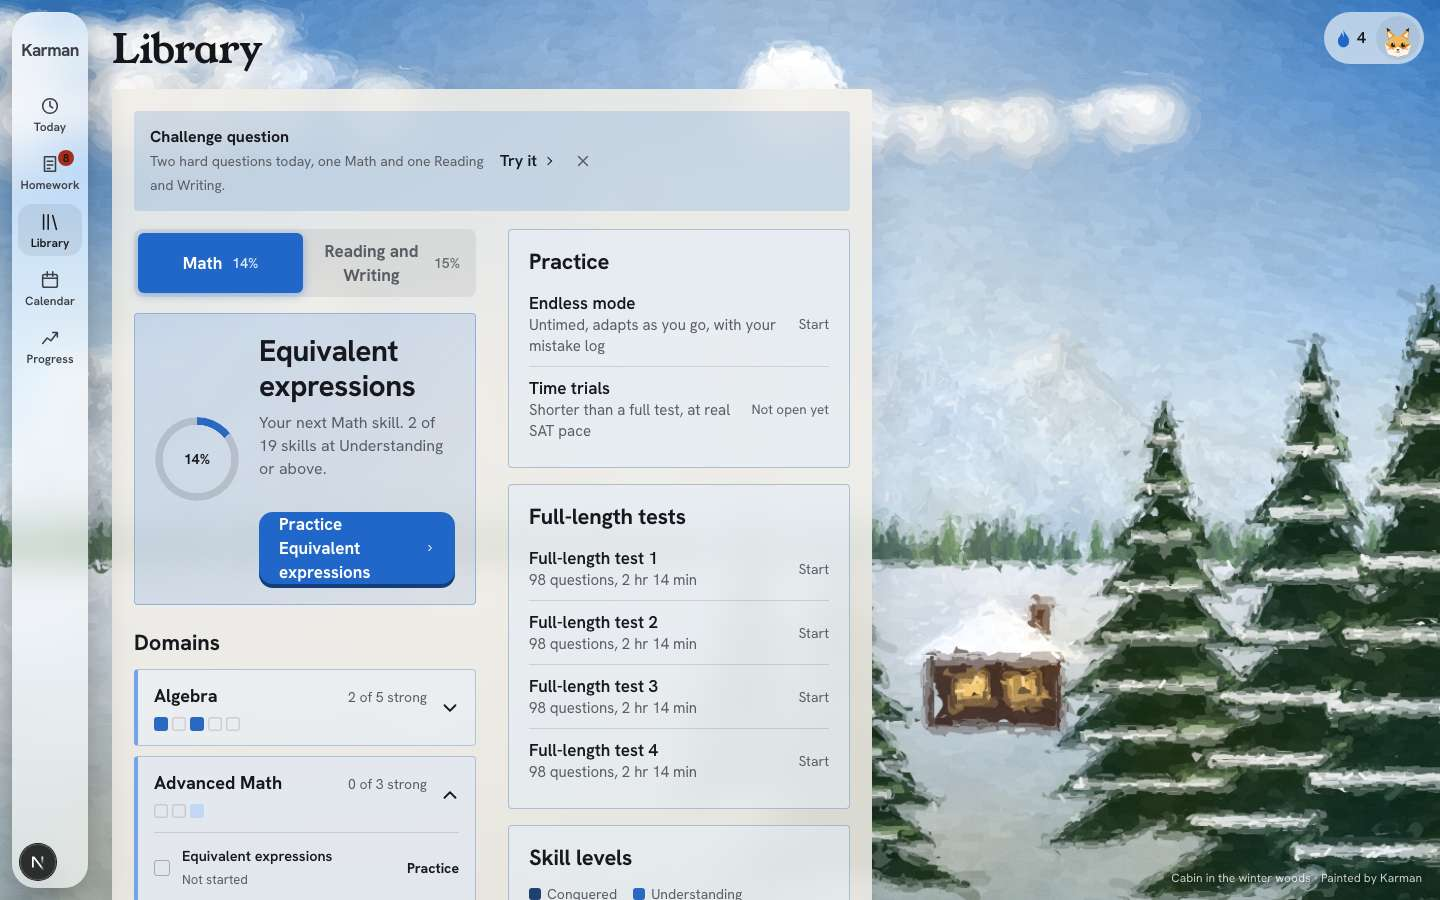
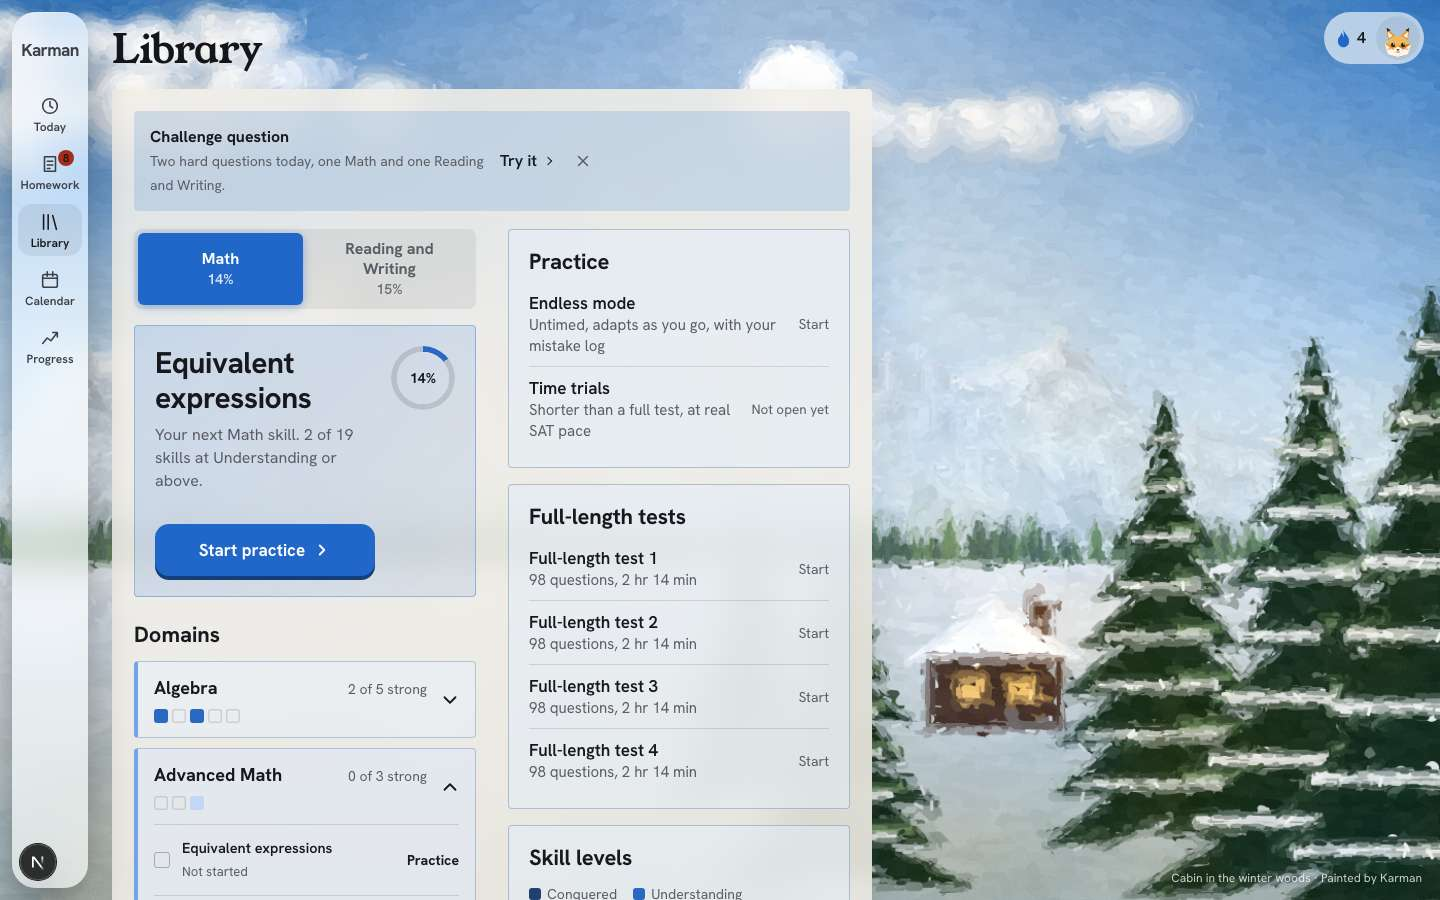
Portal polish: report, before and after screens

diff --git a/docs/overnight/reports/portal-polish.md b/docs/overnight/reports/portal-polish.md
@@ -1,0 +1,230 @@
+# Portal polish: report
+
+Session: portal-polish. Branch: `claude/portal-polish-4562be` (cut from `claude/overnight-ship`
+at `ed02be4e`). Nothing pushed, nothing deployed, main untouched, production never touched. I
+used the local database only, and read the question bank without changing it.
+
+Your nine points apply to every portal (student, parent, tutor, school and admin), because they
+share one shell. The shell fixes below reach all of them.
+
+## What changed
+
+### 1. Loading and the painting
+
+I measured first, on the student Today page, at 1440 wide in headless Chrome on the dev server:
+
+|                                                | Before                                                                             | After                                              |
+| ---------------------------------------------- | ---------------------------------------------------------------------------------- | -------------------------------------------------- |
+| First paint (text on screen)                   | 0.35 to 0.42 s                                                                     | about the same (0.35 to 0.5 s)                     |
+| Page usable                                    | 0.32 to 0.40 s                                                                     | about the same                                     |
+| Painting finished, later pages                 | 0.7 to 0.8 s after load, and the page froze for about 0.12 s to draw the landscape | about 0.06 s after load, nothing to draw           |
+| Moving between tabs (Today, Library, Progress) | the painting was drawn again on every tab                                          | drawn once; the tab shows it within 0.03 to 0.08 s |
+| Layout shift                                   | 0                                                                                  | 0                                                  |
+
+- **The cause:** every page drew the day's painting again from nothing: the landscape (0.12 s
+  frozen) and then thousands of brush strokes over 0.7 s, which showed as detail "popping in".
+- **The fix:** once the painting is finished, it is kept: in memory while you move between tabs,
+  and in the browser's own storage for a reload or a new tab the same day. A later page shows
+  the finished painting straight away, with all its detail, and nothing has to be painted. A
+  new day, a new time of day or a resized window paints afresh. Old days are cleared.
+- The stroke slices that finish the small brushes now check the clock more often, so a slice
+  can no longer run long and hold up a click.
+- The 3.8-second opening (once per session) is unchanged.
+- The page never waits for the painting.
+
+### 2. What to do next, and stronger type
+
+- **The Library leads with one thing to do.** At the top of each course: the next skill in big
+  type, one line ("Your next Math skill. 2 of 19 skills at Understanding or above."), and the
+  screen's only main button, "Start practice". The course ring sits beside it.
+- **Bigger type in every portal:** card headings went from 19 to 22 px, page titles from 22 to
+  26 px, and list text from 16 to 17 px.
+- **More color in the box:** every card carries a little of the painting's hue. Domain cards
+  in the Library are washed with the level shade they've reached, with a colored left edge.
+
+### 3. Cards that open in place
+
+- A new building block, `Expand`, opens a card where it is with a smooth slide instead of
+  jumping to a new page. Any portal can use it.
+- In the Library each Domain is one of these cards. Closed, it shows the name, "2 of 5 strong"
+  and the skill squares. Open, it lists every skill with its level and a Practice link, then
+  "Domain quiz" and "Open Algebra" (the full Domain page) as links.
+- The Domain holding your next skill is open when you arrive.
+- With reduced motion, cards open without the slide.
+
+### 4. Background music
+
+- A soft Karman theme, made in code with the browser's sound engine (no file, nothing bought,
+  nothing copyrighted).
+  - It's in D major, slow (66 beats a minute), with warm pads, a soft bass and a sparse
+    plucked melody with an echo.
+  - It loops about every 29 seconds without a click, and plays very quietly.
+- **Off by default.** Turn it on in Account, Sound and motion: "Background music". Your choice
+  is remembered on the device.
+- It starts only after you click or press a key, as browsers require. It pauses when the tab is
+  hidden and fades back in when you return.
+- It has its own switch rather than following "Quiz sounds", because that switch resets to off
+  on every visit. With it, the music would never come back on its own.
+
+### 5. The logo
+
+- **Inside any portal, the logo goes to that portal's home.** It used to lead to the public site
+  unless a page said otherwise, which looked like being signed out. The pages that forgot are
+  fixed for good: the shell now defaults to the portal's first tab.
+- The rail shows the site header's "Karman" wordmark instead of the rocket. On a phone it sits
+  top left.
+
+### 6. Time and effort
+
+- Progress now shows one bar per day for the last 7 days, each labelled (Mon, Tue … Today) with
+  its time on top. Today's bar is in the accent color.
+- The weekly rings are gone, and the code behind them is replaced.
+
+### 7. The Library splits Math and Reading and Writing
+
+- A big two-tab switch at the top: **Math** and **Reading and Writing**, each with its percent.
+- Picking one shows only that course: its next skill, its Domains and their skills.
+- Without a pick, it opens the course that's further behind.
+- Homework is unchanged and unified. The segmented skill ring on Progress is unchanged.
+
+### 8. The account menu
+
+- **Why it was broken:** in dark mode on a light painting, the menu took the top bar's dark
+  text on its own dark background, and the bar's blur stopped the menu's blur. The page showed
+  through as "blocks on blocks", with text you couldn't read.
+- **Rebuilt:**
+  - It opens from the fox with a spring.
+  - Your name and email sit at the top, with the fox.
+  - Below that, a grid of big tiles. Each has an icon and one or two words: Test date, Invite
+    parent, Sound, Plan, Tutor code, Messages, Profile.
+  - Sign out sits on its own quiet line at the bottom.
+  - Escape, a click outside or a scroll closes it. Arrow keys move between tiles.
+- **The other portals' menus** use the same tiles:
+  - Parent: Weekly email, your other children, Link student.
+  - Admin: Student view, Public site.
+  - Tutor: Admin, for admins.
+
+### 9. Skill categories (read only)
+
+**The portal isn't hiding any skills.** It shows all 39 skills in the catalog: 19 Math and 20
+Reading and Writing.
+
+- **Algebra (5 skills) and Expression of Ideas (2 skills) match the College Board's official
+  list exactly.** The College Board really has only that many.
+- **Why Reading and Writing looks skewed:** our catalog splits Standard English Conventions
+  into 12 skills, where the College Board has 2 (Boundaries, and Form, Structure and Sense). So
+  12 of the 20 Reading and Writing skills sit in that one Domain.
+- **The questions are not skewed.** Standard English Conventions has 1,302 usable questions,
+  23% of Reading and Writing, slightly below its 26% share of the real test. Expression of Ideas
+  has 1,444 questions spread over only 2 skills.
+
+No database field holds finer question types. The question wording does support them, though.
+Below is a proposal for you to approve or change. The counts are rough estimates from matching
+words in the questions. A real rollout would tag each question once and have the tags checked.
+
+| Domain                       | Official skill                    | Proposed sub-skills (about how many questions)                                                                                                                |
+| ---------------------------- | --------------------------------- | ------------------------------------------------------------------------------------------------------------------------------------------------------------- |
+| Algebra                      | Linear equations in one variable  | Solve for x (189), Word problems (84), How many solutions (71), Value of an expression (52)                                                                   |
+| Algebra                      | Linear equations in two variables | Meaning in context (90), Graphs (64), Parallel and perpendicular lines (61), Write the equation (about 40)                                                    |
+| Algebra                      | Linear functions                  | Evaluate or write f(x) (145), From a graph or table (109), Slope and intercept in context (67), Slope and intercept (17)                                      |
+| Algebra                      | Systems of two linear equations   | Solve the system (168), How many solutions (66), Word problems (30)                                                                                           |
+| Algebra                      | Linear inequalities               | Word problems: at least, at most (83), Solve the inequality (62), Points and graphs (31)                                                                      |
+| Advanced Math                | Equivalent expressions            | Polynomials (191), Rational expressions (54), Factoring (33), Exponents and radicals (18)                                                                     |
+| Advanced Math                | Nonlinear equations and systems   | Quadratic equations (179), Radical and absolute value (111), Line and parabola systems (87), How many solutions (59), Rational equations (39)                 |
+| Advanced Math                | Nonlinear functions               | Exponential growth and decay (248), Quadratic functions (187), Zeros and factors (45), Shifts (9)                                                             |
+| Problem-Solving and Data     | Ratios, rates and units           | Unit conversion (137), Ratios and proportions (24), Rates (19)                                                                                                |
+| Problem-Solving and Data     | Percentages                       | Percent of a number (135), Percent change (42)                                                                                                                |
+| Problem-Solving and Data     | One-variable data                 | Mean and median (78), Spread (22), Reading a distribution (20)                                                                                                |
+| Problem-Solving and Data     | Two-variable data                 | Scatterplots and best fit (47), Linear or exponential (10)                                                                                                    |
+| Problem-Solving and Data     | Probability                       | Tables (36), Conditional (12)                                                                                                                                 |
+| Geometry and Trig            | Area and volume                   | Volume (102), Area (62), Scaling (25)                                                                                                                         |
+| Geometry and Trig            | Lines, angles and triangles       | Angle sums (82), Parallel lines (64), Similar triangles (57)                                                                                                  |
+| Geometry and Trig            | Right triangles and trig          | Sine, cosine, tangent (101), Pythagoras and special triangles (66)                                                                                            |
+| Geometry and Trig            | Circles                           | Circle equations (98), Arcs and sectors (17), Circumference and area (13)                                                                                     |
+| Information and Ideas        | Central Ideas and Details         | Main idea (130), Detail from the text (123), Poems and novels (36)                                                                                            |
+| Information and Ideas        | Command of Evidence               | From a table or graph (322), Support or weaken a claim (147), Choose the quotation (119)                                                                      |
+| Information and Ideas        | Inferences                        | Finish the text logically (485), Inference with data (91)                                                                                                     |
+| Craft and Structure          | Words in Context                  | Most precise word (796), Meaning as used (86)                                                                                                                 |
+| Craft and Structure          | Text Structure and Purpose        | Role of the underlined part (217), Overall structure (139), Main purpose (99)                                                                                 |
+| Craft and Structure          | Cross-Text Connections            | How author 2 would respond (39), What both agree on (24)                                                                                                      |
+| Expression of Ideas          | Transitions                       | Contrast (207), Cause and effect (137), Sequence (83), Example (79), Emphasis (76), Addition (32)                                                             |
+| Expression of Ideas          | Rhetorical Synthesis              | Compare or contrast (220), Explain or introduce (102), A specific detail (88), Emphasize (80), Give an example (71), For a new audience (40), Generalize (29) |
+| Standard English Conventions | already 12 skills                 | Keep, or regroup under the 2 official skills with these 12 as sub-skills                                                                                      |
+
+Two ways to show them, for you to choose:
+
+- **Keep the official skills as the squares,** and list sub-skills inside each skill when its
+  card opens. Standard English Conventions would fold back to 2 skills with 6 sub-skills each,
+  so Reading and Writing reads 3, 3, 2, 2 like the College Board.
+- **Make every sub-skill its own square:** about 90 squares. That's more categories, but it
+  drifts from the official list and changes how "Up next" weighs skills.
+
+Also noticed: several reading passages appear more than once under different question numbers.
+For example, about 21 Rhetorical Synthesis items start from the same notes. Some of that is
+normal for that question type, but it is worth a duplicate check.
+
+## How I checked
+
+- **Headless browser** (Playwright from the command line, never the app's browser pane), one
+  dev server on port 3130.
+  - Every tab of every portal: student (Liam, Pro), parent (Rachel), tutor (David), affiliate
+    tutor (Priya), school (Thomas) and admin.
+  - Each at 1440 and 390 wide, in light and dark: 76 page loads.
+  - Every page opened (200), with no sideways scroll and no console errors.
+  - The logo leads to that portal's home on every page.
+  - The account menu opens, and Escape closes it.
+  - At most one main button per screen.
+  - `/tutor/settings` timed out once while the machine was busy, then passed on retry.
+- **Library:** the switch moves between Math and Reading and Writing, and each shows only its
+  own four Domains. A Domain card opens in place (it grows to 328 px) and its links work.
+- **Music:** the switch turns it on (the sound engine runs) and the choice is saved. On the next
+  page it waits for a click before playing. Turning it off saves "off". I can't hear it from
+  here, so please give it a listen.
+- **Painting:** timings above, from `scripts/overnight/portal-measure.mjs`.
+- **Checks:**
+  - `npx tsc --noEmit`: passes.
+  - `npm run lint`: passes (0 errors; one old warning about an image tag).
+  - `npm run check:sizes`: passes.
+  - `npm run format:check`: fails only on two student-portal design docs that came with the
+    branch.
+  - Full test suite (`NODE_OPTIONS=--no-experimental-webstorage npm test`): 569 files,
+    9,759 tests pass, 0 fail (254 are marked "expected to fail", as before).
+
+## Before and after pictures
+
+All in `docs/overnight/screens/portal-polish/`:
+
+- Today: `before-today-1440-light.jpg`, `after-today-1440-light.jpg`, `before-today-390-dark.jpg`,
+  `after-today-390-dark.jpg`.
+- Account menu: `before-menu-390-dark.jpg` (the broken one), `after-menu-390-dark.jpg`,
+  `before-menu-1440-light.jpg`, `after-menu-1440-light.jpg`.
+- Library: `before-library-1440-light.jpg`, `after-library-1440-light.jpg`,
+  `before-library-390-dark.jpg`, `after-library-390-dark.jpg`.
+- Reading and Writing: `after-library-rw-1440-light.jpg`.
+- A Domain card open: `after-expand-390-light.jpg`.
+- Progress: `before-progress-1440-light.jpg`, `after-progress-1440-light.jpg`.
+- The daily bars: `after-time-bars-1440-light.jpg`.
+
+## What is not done
+
+- **Expand is used in the Library only.** Today, Homework and the other portals can adopt it
+  card by card; I ran out of the hour.
+- **The first painting of the day** still takes the same time (the 3.8-second opening, or about
+  0.12 s of drawing when it appears finished). Moving that work off the main thread would need
+  a rewrite of the painting engine.
+- **Sub-skills** wait for your choice above.
+
+## Decisions I made
+
+- Music has its own switch (see point 4) and is never started by reduced-motion settings alone.
+- The Library opens the course that's further behind when you haven't picked one.
+- The menu labels are shortened to one or two words ("Plan" for "Plan and billing", "Tutor code"
+  for "Redeem a tutor's code").
+- The time bars show the last 7 days, not weeks, because you asked to compare days.
+- The rail logo is the site's "Karman" wordmark. The rocket drawing is deleted from the shell.
+
+## Machine note
+
+The disk is nearly full: about 2 to 3 GB free, shared by every session. My first full test run
+stopped on "no space left on device". I stopped my dev server and deleted my build folder
+(about 0.6 GB) to finish.
